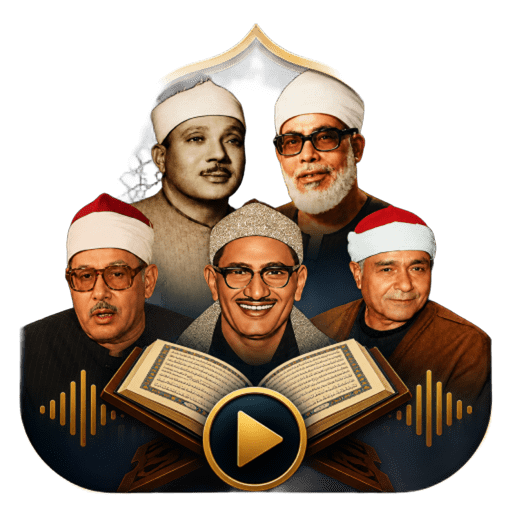
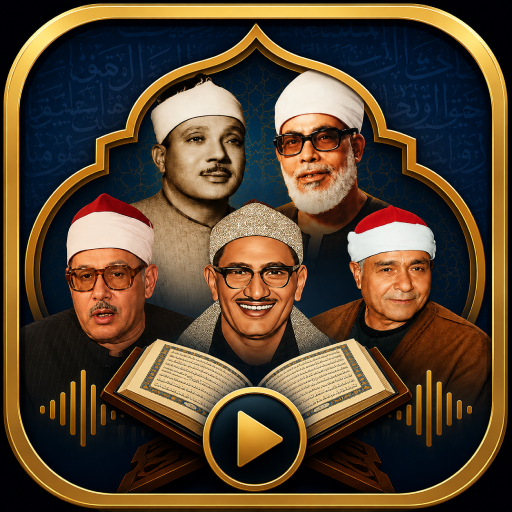
Add files via upload

diff --git a/app.js b/app.js
@@ -90,37 +90,9 @@ const icons = {
     download: '<svg viewBox="0 0 24 24" fill="none" stroke="currentColor" stroke-width="2" stroke-linecap="round" stroke-linejoin="round"><path d="M21 15v4a2 2 0 0 1-2 2H5a2 2 0 0 1-2-2v-4"></path><polyline points="7 10 12 15 17 10"></polyline><line x1="12" y1="15" x2="12" y2="3"></line></svg>'
 };
 
-// تهيئة المشغل
-let audioInstance = new Audio();
-audioInstance.crossOrigin = "anonymous"; 
-
-// متغيرات تضخيم الصوت
-let audioCtx, gainNode, audioSource;
-
-// دالة تهيئة مضخم الصوت مع التعامل مع الأخطاء وإجبار فتح المسار
-function initAudioBoost() {
-    try {
-        if (!audioCtx) {
-            const AudioContext = window.AudioContext || window.webkitAudioContext;
-            if (AudioContext) {
-                audioCtx = new AudioContext();
-                audioSource = audioCtx.createMediaElementSource(audioInstance);
-                gainNode = audioCtx.createGain();
-                gainNode.gain.value = 3.5; // قوة تضخيم الصوت (350%)
-                audioSource.connect(gainNode);
-                gainNode.connect(audioCtx.destination);
-            }
-        }
-        if (audioCtx && audioCtx.state === 'suspended') {
-            audioCtx.resume().catch(e => console.log("Context Resume Error:", e));
-        }
-    } catch (e) {
-        console.log("Audio API Init Error:", e);
-    }
-}
-
 let currentTheme = 'light', currentSheikhId = "husary", currentEdition = 1;
 let activeSurahsData = [], playingSurahId = null, playingSheikhId = null, playingEditionId = null, isBuffering = false;
+let audioInstance = new Audio();
 let isRadioHeaderActive = false;
 let isFocusMode = false;
 
@@ -130,12 +102,14 @@ let preloadedSurahId = null;
 let activeDownloads = {};
 let savedReciterEditions = {}; 
 
-let playbackMode = 'autonext'; 
+let playbackMode = 'autonext'; // 'autonext', 'loop', 'off'
 let playbackMenuOpen = false;
 
 function getSurahName(id, nameAr) { return currentLang === 'ar' ? nameAr : surahNamesEn[id]; }
 
+// دالة ذكية لتحديث واجهة القارئ في الأعلى بناءً على الوضع الحالي
 function updateHeaderUI() {
+    // إذا كان وضع الاستماع الهادئ مفعلاً وهناك شيء يعمل
     if (isFocusMode && (playingSheikhId || playingSurahId === 'radio')) {
         if (playingSurahId === 'radio') {
             document.getElementById('header-avatar-img').src = 'radio.png';
@@ -148,6 +122,7 @@ function updateHeaderUI() {
             document.getElementById('header-subtitle').innerText = currentLang === 'ar' ? editionsConfig[playingSheikhId][playingEditionId].descAr : editionsConfig[playingSheikhId][playingEditionId].descEn;
         }
     } else {
+        // الوضع العادي أو لا شيء يعمل
         if (isRadioHeaderActive) {
             document.getElementById('header-avatar-img').src = 'radio.png';
             document.getElementById('main-title').innerHTML = `<strong>${translations[currentLang].radioTitle}</strong>`;
@@ -173,39 +148,23 @@ function toggleLanguage() {
     document.getElementById('resume-btn-yes').innerText = translations[currentLang].resumeBtn;
     document.getElementById('resume-btn-no').innerText = translations[currentLang].cancelBtn;
     
+    // تحديث نصوص التثبيت والتنبيه
     document.getElementById('install-title').innerText = translations[currentLang].installTitle;
     document.getElementById('install-desc').innerText = translations[currentLang].installDesc;
     document.getElementById('install-action-btn').innerText = translations[currentLang].installBtn;
     document.getElementById('radio-tooltip').innerText = translations[currentLang].radioTooltip;
 
+    // تحديث واجهة القارئ باللغة الجديدة
     updateHeaderUI();
     setPlaybackMode(playbackMode);
     
+    // تحديث المشغل السفلي
     if (playingSurahId === 'radio') {
         document.getElementById('player-track-title').innerText = translations[currentLang].radioTitle;
         document.getElementById('total-time').innerText = translations[currentLang].live;
     } else if (playingSurahId) {
         const sData = activeSurahsData.find(s => s.id === playingSurahId);
         if(sData) document.getElementById('player-track-title').innerText = `${translations[currentLang].surahPrefix} ${getSurahName(sData.id, sData.name)}`;
-    }
-
-    renderSheikhCarousel();
-    renderEditionDropdown();
-    if (activeSurahsData && activeSurahsData.length > 0) {
-        renderSurahsList();
-    }
-
-    const metaDesc = document.querySelector('meta[name="description"]');
-    if (isRadioHeaderActive || playingSurahId === 'radio') {
-        document.title = `Egy Quran - ${translations[currentLang].radioTitle}`;
-        if (metaDesc) metaDesc.setAttribute("content", currentLang === 'ar' ? "استمع إلى البث المباشر لإذاعة القرآن الكريم من القاهرة على منصة Egy Quran." : "Listen to the live broadcast of Holy Quran Radio Cairo on Egy Quran.");
-    } else {
-        const s = recitersList.find(r => r.id === currentSheikhId);
-        if (s) {
-            const sheikhName = currentLang === 'ar' ? s.nameAr : s.nameEn;
-            document.title = `Egy Quran - ${currentLang === 'ar' ? 'الشيخ' : 'Sheikh'} ${sheikhName}`;
-            if (metaDesc) metaDesc.setAttribute("content", currentLang === 'ar' ? `استمع وحمل القرآن الكريم كاملاً بصوت الشيخ ${sheikhName} بجودة عالية وبدون إعلانات مزعجة على Egy Quran.` : `Listen and download the complete Holy Quran by Sheikh ${sheikhName} in high quality on Egy Quran.`);
-        }
     }
 }
 
@@ -215,24 +174,35 @@ function toggleTheme() {
     document.getElementById('theme-toggle-btn').innerHTML = currentTheme === 'dark' ? icons.moon : icons.sun;
 }
 
+// =======================================================
+// وضع الاستماع الهادئ (Focus Mode)
+// =======================================================
 function toggleFocusMode() {
     isFocusMode = !isFocusMode;
     const focusBtn = document.getElementById('focus-toggle-btn');
     
     if (isFocusMode) {
+        // تفعيل الوضع
         document.body.classList.add('focus-mode-active');
-        window.scrollTo({ top: 0, behavior: 'smooth' }); 
+        window.scrollTo({ top: 0, behavior: 'smooth' }); // الصعود لأعلى الشاشة تلقائياً
+        
+        // تفعيل لون الأيقونة الذهبي
         if (focusBtn) focusBtn.classList.add('active-feature');
         showToast(currentLang === 'ar' ? 'تم تفعيل وضع الاستماع الهادئ' : 'Focus Mode Enabled');
     } else {
+        // إلغاء الوضع
         document.body.classList.remove('focus-mode-active');
+        
+        // إزالة لون الأيقونة الذهبي
         if (focusBtn) focusBtn.classList.remove('active-feature');
         showToast(currentLang === 'ar' ? 'تم إيقاف وضع الاستماع الهادئ' : 'Focus Mode Disabled');
     }
+    
     updateHeaderUI();
-    syncUIWithAudioState(); 
+    syncUIWithAudioState(); // لتحديث رؤية المعادل الصوتي
 }
 
+// دوال التحكم في المشغل (تلقائي/تكرار/إيقاف)
 function togglePlaybackMenu(event) {
     if(event) event.stopPropagation();
     playbackMenuOpen = !playbackMenuOpen;
@@ -291,6 +261,7 @@ function syncUIWithAudioState() {
     const statusIcon = isBuffering ? icons.loading : (isPlaying ? icons.pause : icons.play);
     document.getElementById('player-play-btn').innerHTML = statusIcon;
 
+    // تحديث أيقونة الراديو العلوية
     const radioBtn = document.getElementById('radio-btn');
     if (radioBtn) {
         if (playingSurahId === 'radio' && isPlaying && !isBuffering) {
@@ -300,6 +271,7 @@ function syncUIWithAudioState() {
         }
     }
 
+    // إظهار المعادل الصوتي أسفل اسم القارئ فقط إذا كان القارئ المعروض هو الذي يقرأ بالفعل
     const isHeaderMatchingPlaying = isFocusMode || 
         (playingSurahId === 'radio' && isRadioHeaderActive) || 
         (playingSurahId !== 'radio' && currentSheikhId === playingSheikhId && currentEdition == playingEditionId);
@@ -313,6 +285,7 @@ function syncUIWithAudioState() {
         }
     }
 
+    // تحديث السور
     document.querySelectorAll('.surah-row').forEach(row => {
         const sId = parseInt(row.getAttribute('data-id'));
         const playBtn = row.querySelector('.play-cell');
@@ -321,6 +294,7 @@ function syncUIWithAudioState() {
         else { row.classList.remove('active-row'); playBtn.innerHTML = icons.play; }
     });
 
+    // تحديث القراء
     document.querySelectorAll('.sheikh-item').forEach(item => {
         const sId = item.getAttribute('data-id');
         let badge = item.querySelector('.playing-badge');
@@ -329,6 +303,7 @@ function syncUIWithAudioState() {
         } else if (badge) badge.remove();
     });
 
+    // تحديث الختمات
     document.querySelectorAll('.edition-pill').forEach(pill => {
         const pillKey = pill.getAttribute('data-key');
         const isPlayingThisEdition = (currentSheikhId === playingSheikhId && pillKey == playingEditionId && isPlaying && !isBuffering && playingSurahId !== 'radio');
@@ -416,6 +391,7 @@ async function selectSheikh(id) {
     if (id === playingSheikhId && playingEditionId && editionsConfig[id][playingEditionId]) currentEdition = playingEditionId; else currentEdition = savedReciterEditions[id] || 1;
     const s = recitersList.find(r => r.id === id);
 
+    // تحديث عنوان الصفحة والوصف والرابط ديناميكياً لمحركات البحث وللمشاركة
     const sheikhName = currentLang === 'ar' ? s.nameAr : s.nameEn;
     document.title = `Egy Quran - ${currentLang === 'ar' ? 'الشيخ' : 'Sheikh'} ${sheikhName}`;
     const metaDesc = document.querySelector('meta[name="description"]');
@@ -458,15 +434,16 @@ async function selectEditionDropdown(num, event) {
     renderEditionDropdown(); await loadEditionData(currentSheikhId, num);
 }
 
+// إخفاء تنبيه استكشاف الراديو
 function hideRadioDiscovery() {
     document.getElementById('radio-tooltip').classList.remove('show');
     document.getElementById('radio-badge').classList.remove('show');
     localStorage.setItem('radioDiscovered', 'true');
 }
 
+// --- دالة تشغيل الراديو ---
 function playRadio() {
     hideRadioDiscovery();
-    initAudioBoost(); 
 
     if (playingSurahId === 'radio') { togglePlayPause(); return; }
     
@@ -476,17 +453,9 @@ function playRadio() {
     
     isBuffering = true; 
     
-    // إصلاح مشكلة المتصفح: تفريغ المسار القديم وإجباره على التحديث
-    audioInstance.pause();
     audioInstance.src = radioUrl; 
     audioInstance.loop = false;
-    audioInstance.load(); 
-    
-    audioInstance.play().catch(e => {
-        console.log("Audio Play Error:", e);
-        isBuffering = false;
-        syncUIWithAudioState();
-    });
+    audioInstance.play().catch(e => console.log(e));
     
     localStorage.setItem('lastPlayedQuran', JSON.stringify({ sheikh: null, edition: null, surah: 'radio' }));
     
@@ -496,6 +465,7 @@ function playRadio() {
     isRadioHeaderActive = true;
     updateHeaderUI();
     
+    // تحديث عنوان الصفحة والوصف والرابط للإذاعة
     document.title = `Egy Quran - ${translations[currentLang].radioTitle}`;
     const metaDesc = document.querySelector('meta[name="description"]');
     if (metaDesc) metaDesc.setAttribute("content", currentLang === 'ar' ? "استمع إلى البث المباشر لإذاعة القرآن الكريم من القاهرة على منصة Egy Quran." : "Listen to the live broadcast of Holy Quran Radio Cairo on Egy Quran.");
@@ -503,6 +473,7 @@ function playRadio() {
     const newUrl = window.location.protocol + "//" + window.location.host + window.location.pathname + `?listen=radio`;
     window.history.pushState({ path: newUrl }, '', newUrl);
 
+    // ضبط شكل شريط التقدم للراديو
     document.getElementById('progress-bar-fill').style.width = '100%';
     document.getElementById('progress-thumb').style.display = 'none';
     document.getElementById('time-separator').style.display = 'none';
@@ -527,7 +498,6 @@ function playRadio() {
 }
 
 function playSurah(id, url) {
-    initAudioBoost(); 
     if (playingSurahId === id && playingSheikhId === currentSheikhId && playingEditionId === currentEdition) { togglePlayPause(); return; }
     
     isRadioHeaderActive = false;
@@ -535,17 +505,9 @@ function playSurah(id, url) {
     
     isBuffering = true; 
     
-    // إصلاح مشكلة المتصفح: تفريغ المسار القديم وإجباره على التحديث
-    audioInstance.pause();
     audioInstance.src = url; 
     audioInstance.loop = (playbackMode === 'loop');
-    audioInstance.load();
-    
-    audioInstance.play().catch(e => {
-        console.log("Audio Play Error:", e);
-        isBuffering = false;
-        syncUIWithAudioState();
-    });
+    audioInstance.play().catch(e => console.log(e));
     
     localStorage.setItem('lastPlayedQuran', JSON.stringify({ sheikh: playingSheikhId, edition: playingEditionId, surah: playingSurahId }));
     const sData = activeSurahsData.find(s => s.id === id); const sName = getSurahName(id, sData.name);
@@ -554,6 +516,7 @@ function playSurah(id, url) {
     document.getElementById('global-player').style.display = 'block'; 
     document.getElementById('player-track-title').innerText = `${translations[currentLang].surahPrefix} ${sName}`;
     
+    // إرجاع شكل شريط التقدم العادي
     document.getElementById('progress-thumb').style.display = 'block';
     document.getElementById('time-separator').style.display = 'inline';
 
@@ -569,23 +532,17 @@ function playSurah(id, url) {
 }
 
 function togglePlayPause() { 
-    initAudioBoost(); 
     if (audioInstance.paused && audioInstance.src) {
         isBuffering = true;
         syncUIWithAudioState();
         
         // إعادة تحميل البث المباشر
         if (playingSurahId === 'radio') {
-            audioInstance.pause();
             audioInstance.src = radioUrl;
             audioInstance.load();
         }
         
-        audioInstance.play().catch(e => {
-            console.log("Audio Play Error:", e);
-            isBuffering = false;
-            syncUIWithAudioState();
-        });
+        audioInstance.play().catch(e => console.log(e));
     } else {
         audioInstance.pause(); 
     }
@@ -604,6 +561,7 @@ audioInstance.addEventListener('playing', () => { isBuffering = false; syncUIWit
 audioInstance.addEventListener('play', () => { isBuffering = true; syncUIWithAudioState(); });
 audioInstance.addEventListener('pause', () => { isBuffering = false; syncUIWithAudioState(); });
 
+// معالجة خطأ الإنترنت واستمرار الدائرة
 audioInstance.addEventListener('error', () => {
     if (!navigator.onLine) {
         isBuffering = true; 
@@ -614,6 +572,7 @@ audioInstance.addEventListener('error', () => {
     showToast(currentLang === 'ar' ? "خطأ في الاتصال، يرجى التحقق من الإنترنت" : "Network error, please check connection");
 });
 
+// محاولة إعادة التشغيل التلقائي عند عودة الإنترنت
 window.addEventListener('online', () => {
     if (isBuffering && playingSurahId && !audioInstance.paused) {
         audioInstance.load();
@@ -638,14 +597,17 @@ audioInstance.onended = () => {
 
 audioInstance.ontimeupdate = () => {
     if (playingSurahId === 'radio') {
+        // شكل المشغل للراديو
         document.getElementById('progress-bar-fill').style.width = '100%';
         document.getElementById('curr-time').innerText = "";
         document.getElementById('total-time').innerText = translations[currentLang].live;
     } else if (audioInstance.duration && !isDragging) {
+        // شكل المشغل للسور العادية
         document.getElementById('progress-bar-fill').style.width = ((audioInstance.currentTime / audioInstance.duration) * 100) + '%';
         document.getElementById('curr-time').innerText = formatTime(audioInstance.currentTime);
         document.getElementById('total-time').innerText = formatTime(audioInstance.duration);
 
+        // التحميل المسبق للسور
         if (playbackMode === 'autonext' && (audioInstance.duration - audioInstance.currentTime) < 15) {
             const idx = activeSurahsData.findIndex(s => s.id === playingSurahId);
             if (idx !== -1 && idx < activeSurahsData.length - 1) {
@@ -667,7 +629,7 @@ let currentSeekPct = 0;
 const progressContainer = document.getElementById('progress-container');
 
 const seek = (e) => { 
-    if (playingSurahId === 'radio') return currentSeekPct; 
+    if (playingSurahId === 'radio') return currentSeekPct; // منع التقديم والتأخير في الراديو
     const rect = progressContainer.getBoundingClientRect(); 
     let clientX = 0;
     if (e.type.includes('touch')) {
@@ -693,10 +655,12 @@ window.addEventListener('touchend', (e) => { if (isDragging) { isDragging = fals
 
 progressContainer.addEventListener('click', (e) => { if(playingSurahId !== 'radio' && audioInstance.duration && audioInstance.duration !== Infinity) audioInstance.currentTime = seek(e) * audioInstance.duration; });
 
+// كود تشغيل زر تثبيت التطبيق الانزلاقي
 let deferredPrompt;
 window.addEventListener('beforeinstallprompt', (e) => {
     e.preventDefault();
     deferredPrompt = e;
+    // إظهار الرسالة دائما طالما التطبيق لم يثبت
     setTimeout(() => {
         document.getElementById('install-banner').classList.add('show');
     }, 2000); 
@@ -725,11 +689,13 @@ if ('serviceWorker' in navigator) { window.addEventListener('load', () => { navi
     let targetSheikh = 'husary'; 
     const savedState = JSON.parse(localStorage.getItem('lastPlayedQuran'));
     
+    // قراءة الرابط للبحث عن قارئ محدد أو الإذاعة
     const urlParams = new URLSearchParams(window.location.search);
     const reciterFromUrl = urlParams.get('sheikh'); 
     const listenFromUrl = urlParams.get('listen');
 
     if (listenFromUrl === 'radio') {
+        // إذا كان الزائر قادماً من رابط الإذاعة المباشر
         playingSurahId = 'radio';
         isRadioHeaderActive = true;
     } else if (reciterFromUrl && recitersList.some(r => r.id === reciterFromUrl)) {
@@ -752,10 +718,12 @@ if ('serviceWorker' in navigator) { window.addEventListener('load', () => { navi
     
     await selectSheikh(targetSheikh);
 
+    // تشغيل الراديو تلقائياً في الخلفية
     if (listenFromUrl === 'radio') {
         playRadio();
     }
 
+    // تفعيل إرشاد الراديو
     if (!localStorage.getItem('radioDiscovered')) {
         setTimeout(() => {
             document.getElementById('radio-tooltip').classList.add('show');
@@ -763,6 +731,7 @@ if ('serviceWorker' in navigator) { window.addEventListener('load', () => { navi
         }, 2500); 
     }
 
+    // إظهار تنبيه الاستئناف
     if(savedState && savedState.surah && listenFromUrl !== 'radio') {
         if (savedState.surah === 'radio') {
             audioInstance.src = radioUrl;